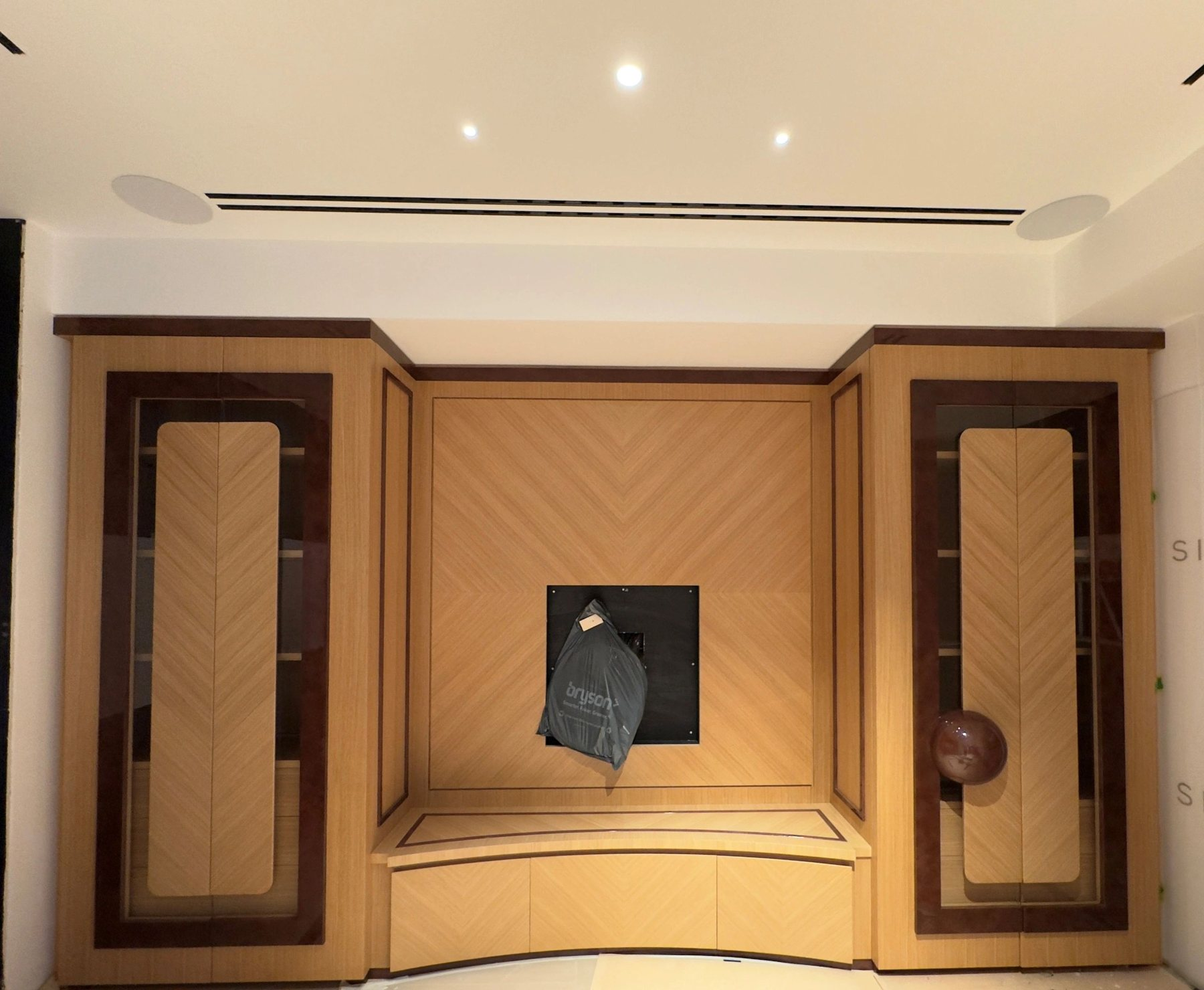
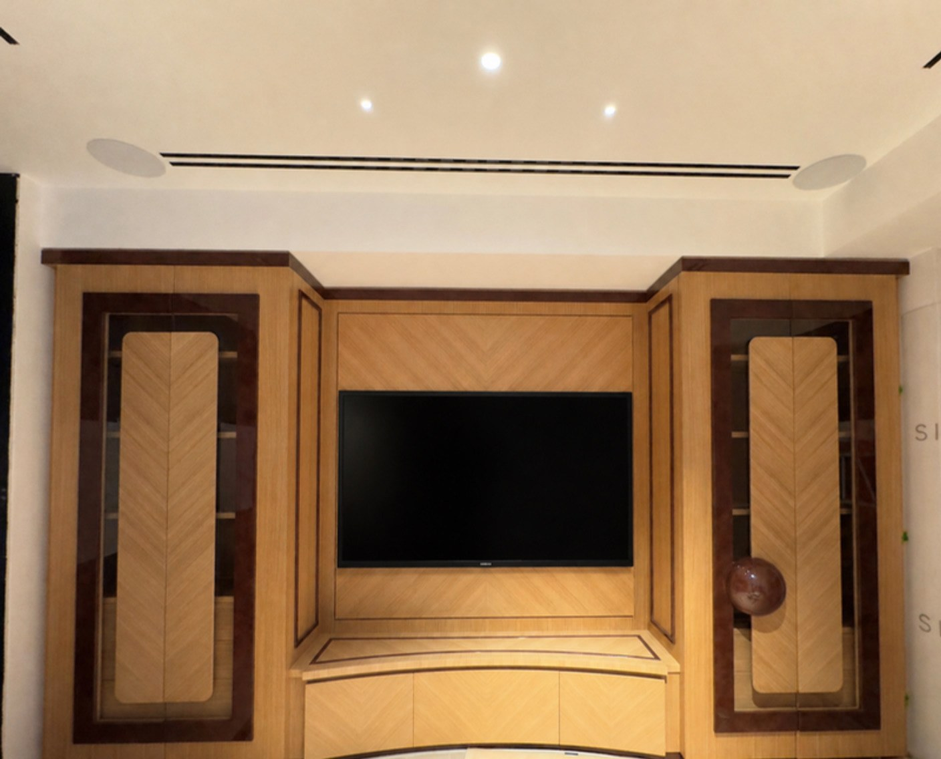
Retouched games room and conservatory photos

diff --git a/index.html b/index.html
@@ -16,7 +16,7 @@
 <link rel="preconnect" href="https://fonts.googleapis.com">
 <link rel="preconnect" href="https://fonts.gstatic.com" crossorigin>
 <link rel="stylesheet" href="https://fonts.googleapis.com/css2?family=Montserrat:wght@400;500;600;700;800&display=swap">
-<link rel="stylesheet" href="/styles.css?v=20">
+<link rel="stylesheet" href="/styles.css?v=21">
 <link rel="icon" href="/assets/ethiks-logo.png">
 <script type="application/ld+json">{"@context": "https://schema.org", "@type": "GeneralContractor", "name": "Ethiks", "legalName": "Ethiks Site Services Ltd", "url": "https://www.ethiks.co.uk/", "email": "info@ethiks.co.uk", "areaServed": "GB", "vatID": "368202614", "description": "Shopfitting, fit-out, joinery and dry lining contractor working across the UK.", "address": {"@type": "PostalAddress", "addressLocality": "Sheffield", "addressRegion": "South Yorkshire", "addressCountry": "GB"}, "openingHours": "Mo-Fr 08:00-17:00"}</script>
 </head>
@@ -32,7 +32,7 @@
   <nav class="nav" aria-label="Main"><a href="/" aria-current="page">Home</a><a href="/fit-out.html">Shopfitting</a><a href="/residential.html">Joinery</a><a href="/projects.html">Projects</a><a href="/about-us.html">About</a><a class="btn" href="/contact-us.html">Get a quote</a></nav>
 </div></header>
 <section class="hero2">
-  <div class="slides" aria-hidden="true"><figure class="on"><img src="/assets/img/s-pay-hall.jpg" alt="" width="1290" height="1290" fetchpriority="high"></figure><figure><img src="/assets/img/hero-joinery.jpg" alt="" width="2560" height="1920" loading="lazy"></figure><figure><img src="/assets/img/m-atrium.jpg" alt="" width="1290" height="973" loading="lazy"></figure><figure><img src="/assets/img/s-shelving-tables.jpg" alt="" width="1290" height="726" loading="lazy"></figure><figure><img src="/assets/img/j-glazed-cabinets.jpg" alt="" width="1792" height="1800" loading="lazy"></figure></div>
+  <div class="slides" aria-hidden="true"><figure class="on"><img src="/assets/img/s-pay-hall.jpg" alt="" width="1290" height="1290" fetchpriority="high"></figure><figure><img src="/assets/img/hero-joinery.jpg" alt="" width="2560" height="1920" loading="lazy"></figure><figure><img src="/assets/img/m-atrium.jpg" alt="" width="1290" height="973" loading="lazy"></figure><figure><img src="/assets/img/s-shelving-tables.jpg" alt="" width="1290" height="726" loading="lazy"></figure><figure><img src="/assets/img/j-glazed-cabinets.jpg" alt="" width="1264" height="1264" loading="lazy"></figure></div>
   <span class="edge" aria-hidden="true"></span>
   <div class="in">
     <div class="pitch">
@@ -59,18 +59,18 @@
   <div class="panels rv">
     <a class="panel on" href="/fit-out.html"><img src="/assets/img/s-pay-counter.jpg" alt="" width="1290" height="1290" loading="lazy"><span class="n">01</span><div class="body"><h3>Shopfitting</h3><p>Counters, checkouts, fixtures and wall systems for retail, fitted by trained installers.</p><span class="go">Shopfitting →</span></div></a>
     <a class="panel" href="/fit-out.html"><img src="/assets/img/m-landing.jpg" alt="" width="1290" height="970" loading="lazy"><span class="n">02</span><div class="body"><h3>Fit-out and dry lining</h3><p>Turnkey fit-out with partitions, linings, ceilings and joinery, managed from start to finish.</p><span class="go">Fit-out →</span></div></a>
-    <a class="panel" href="/residential.html"><img src="/assets/img/j-glazed-cabinets.jpg" alt="" width="1792" height="1800" loading="lazy"><span class="n">03</span><div class="body"><h3>Joinery and kitchens</h3><p>Fitted joinery, doors, flooring and kitchens for homes.</p><span class="go">Joinery →</span></div></a>
+    <a class="panel" href="/residential.html"><img src="/assets/img/j-glazed-cabinets.jpg" alt="" width="1264" height="1264" loading="lazy"><span class="n">03</span><div class="body"><h3>Joinery and kitchens</h3><p>Fitted joinery, doors, flooring and kitchens for homes.</p><span class="go">Joinery →</span></div></a>
   </div>
 </div></section>
 
 <section class="sec wash" style="padding-bottom:72px">
   <div class="in"><div class="shead rv"><span class="eyebrow">Projects</span><h2>Recent work.</h2><p>Our own site photos. Hover to pause, click to enlarge.</p></div></div>
-  <div class="marq"><div class="track"><figure data-zoom><img src="/assets/img/s-shelving-tables.jpg" alt="Timber shelving bays and round display tables in a shop interior" width="1290" height="726" loading="lazy"><figcaption>Shelving and display tables</figcaption></figure><figure data-zoom><img src="/assets/img/j-wardrobe-run.jpg" alt="Wall of fitted timber wardrobes with open shelving" width="1800" height="1350" loading="lazy"><figcaption>Fitted wardrobes</figcaption></figure><figure data-zoom><img src="/assets/img/s-kiosk.jpg" alt="Food-to-go kiosk with timber-effect counter inside a supermarket" width="1280" height="1706" loading="lazy"><figcaption>Food-to-go kiosk</figcaption></figure><figure data-zoom><img src="/assets/img/j-games-room.jpg" alt="Timber panelled wall with inlaid door panels in a games room" width="1800" height="1480" loading="lazy"><figcaption>Games room panelling</figcaption></figure><figure data-zoom><img src="/assets/img/m-atrium.jpg" alt="Double-height atrium inside a modular building after fit-out" width="1290" height="973" loading="lazy"><figcaption>Atrium</figcaption></figure><figure data-zoom><img src="/assets/img/s-counter-run.jpg" alt="Long run of counter units in a clothing department" width="1290" height="1290" loading="lazy"><figcaption>Counter run</figcaption></figure><figure data-zoom><img src="/assets/img/j-glazed-cabinets.jpg" alt="Glazed timber cabinets lining a room under a roof lantern" width="1792" height="1800" loading="lazy"><figcaption>Glazed cabinets</figcaption></figure><figure data-zoom><img src="/assets/img/m-landing.jpg" alt="First-floor landing with timber doors, glass balustrade and suspended ceiling" width="1290" height="970" loading="lazy"><figcaption>Landing and balustrade</figcaption></figure><figure data-zoom><img src="/assets/img/s-pay-counter.jpg" alt="Pay-here counter with timber-slat bulkhead above" width="1290" height="1290" loading="lazy"><figcaption>Counter and bulkhead</figcaption></figure><figure data-zoom><img src="/assets/img/j-panelled-door.jpg" alt="Panelled timber door set in a deep architrave" width="1287" height="1800" loading="lazy"><figcaption>Panelled door</figcaption></figure><figure aria-hidden="true" data-zoom><img src="/assets/img/s-shelving-tables.jpg" alt="" width="1290" height="726" loading="lazy"><figcaption>Shelving and display tables</figcaption></figure><figure aria-hidden="true" data-zoom><img src="/assets/img/j-wardrobe-run.jpg" alt="" width="1800" height="1350" loading="lazy"><figcaption>Fitted wardrobes</figcaption></figure><figure aria-hidden="true" data-zoom><img src="/assets/img/s-kiosk.jpg" alt="" width="1280" height="1706" loading="lazy"><figcaption>Food-to-go kiosk</figcaption></figure><figure aria-hidden="true" data-zoom><img src="/assets/img/j-games-room.jpg" alt="" width="1800" height="1480" loading="lazy"><figcaption>Games room panelling</figcaption></figure><figure aria-hidden="true" data-zoom><img src="/assets/img/m-atrium.jpg" alt="" width="1290" height="973" loading="lazy"><figcaption>Atrium</figcaption></figure><figure aria-hidden="true" data-zoom><img src="/assets/img/s-counter-run.jpg" alt="" width="1290" height="1290" loading="lazy"><figcaption>Counter run</figcaption></figure><figure aria-hidden="true" data-zoom><img src="/assets/img/j-glazed-cabinets.jpg" alt="" width="1792" height="1800" loading="lazy"><figcaption>Glazed cabinets</figcaption></figure><figure aria-hidden="true" data-zoom><img src="/assets/img/m-landing.jpg" alt="" width="1290" height="970" loading="lazy"><figcaption>Landing and balustrade</figcaption></figure><figure aria-hidden="true" data-zoom><img src="/assets/img/s-pay-counter.jpg" alt="" width="1290" height="1290" loading="lazy"><figcaption>Counter and bulkhead</figcaption></figure><figure aria-hidden="true" data-zoom><img src="/assets/img/j-panelled-door.jpg" alt="" width="1287" height="1800" loading="lazy"><figcaption>Panelled door</figcaption></figure></div></div>
+  <div class="marq"><div class="track"><figure data-zoom><img src="/assets/img/s-shelving-tables.jpg" alt="Timber shelving bays and round display tables in a shop interior" width="1290" height="726" loading="lazy"><figcaption>Shelving and display tables</figcaption></figure><figure data-zoom><img src="/assets/img/j-wardrobe-run.jpg" alt="Wall of fitted timber wardrobes with open shelving" width="1800" height="1350" loading="lazy"><figcaption>Fitted wardrobes</figcaption></figure><figure data-zoom><img src="/assets/img/s-kiosk.jpg" alt="Food-to-go kiosk with timber-effect counter inside a supermarket" width="1280" height="1706" loading="lazy"><figcaption>Food-to-go kiosk</figcaption></figure><figure data-zoom><img src="/assets/img/j-games-room.jpg" alt="Timber panelled media wall with a TV between inlaid door panels" width="1408" height="1136" loading="lazy"><figcaption>Games room panelling</figcaption></figure><figure data-zoom><img src="/assets/img/m-atrium.jpg" alt="Double-height atrium inside a modular building after fit-out" width="1290" height="973" loading="lazy"><figcaption>Atrium</figcaption></figure><figure data-zoom><img src="/assets/img/s-counter-run.jpg" alt="Long run of counter units in a clothing department" width="1290" height="1290" loading="lazy"><figcaption>Counter run</figcaption></figure><figure data-zoom><img src="/assets/img/j-glazed-cabinets.jpg" alt="Glazed timber cabinets lining a room with a timber floor under a roof lantern" width="1264" height="1264" loading="lazy"><figcaption>Glazed cabinets</figcaption></figure><figure data-zoom><img src="/assets/img/m-landing.jpg" alt="First-floor landing with timber doors, glass balustrade and suspended ceiling" width="1290" height="970" loading="lazy"><figcaption>Landing and balustrade</figcaption></figure><figure data-zoom><img src="/assets/img/s-pay-counter.jpg" alt="Pay-here counter with timber-slat bulkhead above" width="1290" height="1290" loading="lazy"><figcaption>Counter and bulkhead</figcaption></figure><figure data-zoom><img src="/assets/img/j-panelled-door.jpg" alt="Panelled timber door set in a deep architrave" width="1287" height="1800" loading="lazy"><figcaption>Panelled door</figcaption></figure><figure aria-hidden="true" data-zoom><img src="/assets/img/s-shelving-tables.jpg" alt="" width="1290" height="726" loading="lazy"><figcaption>Shelving and display tables</figcaption></figure><figure aria-hidden="true" data-zoom><img src="/assets/img/j-wardrobe-run.jpg" alt="" width="1800" height="1350" loading="lazy"><figcaption>Fitted wardrobes</figcaption></figure><figure aria-hidden="true" data-zoom><img src="/assets/img/s-kiosk.jpg" alt="" width="1280" height="1706" loading="lazy"><figcaption>Food-to-go kiosk</figcaption></figure><figure aria-hidden="true" data-zoom><img src="/assets/img/j-games-room.jpg" alt="" width="1408" height="1136" loading="lazy"><figcaption>Games room panelling</figcaption></figure><figure aria-hidden="true" data-zoom><img src="/assets/img/m-atrium.jpg" alt="" width="1290" height="973" loading="lazy"><figcaption>Atrium</figcaption></figure><figure aria-hidden="true" data-zoom><img src="/assets/img/s-counter-run.jpg" alt="" width="1290" height="1290" loading="lazy"><figcaption>Counter run</figcaption></figure><figure aria-hidden="true" data-zoom><img src="/assets/img/j-glazed-cabinets.jpg" alt="" width="1264" height="1264" loading="lazy"><figcaption>Glazed cabinets</figcaption></figure><figure aria-hidden="true" data-zoom><img src="/assets/img/m-landing.jpg" alt="" width="1290" height="970" loading="lazy"><figcaption>Landing and balustrade</figcaption></figure><figure aria-hidden="true" data-zoom><img src="/assets/img/s-pay-counter.jpg" alt="" width="1290" height="1290" loading="lazy"><figcaption>Counter and bulkhead</figcaption></figure><figure aria-hidden="true" data-zoom><img src="/assets/img/j-panelled-door.jpg" alt="" width="1287" height="1800" loading="lazy"><figcaption>Panelled door</figcaption></figure></div></div>
   <div class="in"><p style="margin-top:30px"><a class="btn dark" href="/projects.html">See all projects</a></p></div>
 </section>
 
 <section class="sec"><div class="in split">
-  <div class="photo tall zoom rv" data-zoom><img src="/assets/img/j-games-room.jpg" alt="Timber panelled wall with inlaid door panels in a games room" width="1800" height="1480" loading="lazy"></div>
+  <div class="photo tall zoom rv" data-zoom><img src="/assets/img/j-games-room.jpg" alt="Timber panelled wall with inlaid door panels in a games room" width="1408" height="1136" loading="lazy"></div>
   <div class="copy rv d1">
     <span class="eyebrow">How we work</span>
     <h2>The last trade in decides how the job looks.</h2>
@@ -109,6 +109,6 @@
   </div>
 </footer>
 <div class="lb" role="dialog" aria-modal="true" aria-label="Photo" hidden><button class="x" aria-label="Close">×</button><button class="prev" aria-label="Previous photo">←</button><img alt=""><button class="next" aria-label="Next photo">→</button><p></p></div>
-<script src="/main.js?v=20" defer></script>
+<script src="/main.js?v=21" defer></script>
 </body>
 </html>

diff --git a/projects.html b/projects.html
@@ -16,7 +16,7 @@
 <link rel="preconnect" href="https://fonts.googleapis.com">
 <link rel="preconnect" href="https://fonts.gstatic.com" crossorigin>
 <link rel="stylesheet" href="https://fonts.googleapis.com/css2?family=Montserrat:wght@400;500;600;700;800&display=swap">
-<link rel="stylesheet" href="/styles.css?v=20">
+<link rel="stylesheet" href="/styles.css?v=21">
 <link rel="icon" href="/assets/ethiks-logo.png">
 </head>
 <body>
@@ -41,7 +41,7 @@
     <button type="button" data-f="joinery" aria-pressed="false">Joinery</button>
     <button type="button" data-f="modular" aria-pressed="false">Modular</button>
   </div>
-  <div class="gallery"><figure data-g="shop" data-zoom><img src="/assets/img/s-pay-hall.jpg" alt="Pay-here counters and customer service desk in a large store" width="1290" height="1290" loading="lazy"><figcaption>Pay-here counters</figcaption></figure><figure data-g="joinery" data-zoom><img src="/assets/img/j-wardrobe-run.jpg" alt="Wall of fitted timber wardrobes with open shelving" width="1800" height="1350" loading="lazy"><figcaption>Fitted wardrobes</figcaption></figure><figure data-g="modular" data-zoom><img src="/assets/img/m-building.jpg" alt="Completed two-storey modular building with dark cladding over light brick" width="1290" height="716" loading="lazy"><figcaption>Completed building</figcaption></figure><figure data-g="shop" data-zoom><img src="/assets/img/s-shelving-tables.jpg" alt="Timber shelving bays and round display tables in a shop interior" width="1290" height="726" loading="lazy"><figcaption>Shelving and display tables</figcaption></figure><figure data-g="joinery" data-zoom><img src="/assets/img/j-glazed-cabinets.jpg" alt="Glazed timber cabinets lining a room under a roof lantern" width="1792" height="1800" loading="lazy"><figcaption>Glazed cabinets</figcaption></figure><figure data-g="modular" data-zoom><img src="/assets/img/m-atrium.jpg" alt="Double-height atrium inside a modular building after fit-out" width="1290" height="973" loading="lazy"><figcaption>Atrium</figcaption></figure><figure data-g="shop" data-zoom><img src="/assets/img/s-kiosk.jpg" alt="Food-to-go kiosk with timber-effect counter inside a supermarket" width="1280" height="1706" loading="lazy"><figcaption>Food-to-go kiosk</figcaption></figure><figure data-g="joinery" data-zoom><img src="/assets/img/j-games-room.jpg" alt="Timber panelled wall with inlaid door panels in a games room" width="1800" height="1480" loading="lazy"><figcaption>Games room panelling</figcaption></figure><figure data-g="modular" data-zoom><img src="/assets/img/m-landing.jpg" alt="First-floor landing with timber doors, glass balustrade and suspended ceiling" width="1290" height="970" loading="lazy"><figcaption>Landing and balustrade</figcaption></figure><figure data-g="shop" data-zoom><img src="/assets/img/s-counter-run.jpg" alt="Long run of counter units in a clothing department" width="1290" height="1290" loading="lazy"><figcaption>Counter run</figcaption></figure><figure data-g="joinery" data-zoom><img src="/assets/img/j-glazed-doors.jpg" alt="Tall pair of glazed timber doors" width="1059" height="1800" loading="lazy"><figcaption>Glazed doors</figcaption></figure><figure data-g="modular" data-zoom><img src="/assets/img/m-classroom.jpg" alt="Large room with carpet tiles, wall boards and suspended ceiling" width="1290" height="956" loading="lazy"><figcaption>Teaching room</figcaption></figure><figure data-g="shop" data-zoom><img src="/assets/img/s-checkout-desk.jpg" alt="Manned checkout desk at the front of a supermarket" width="1290" height="968" loading="lazy"><figcaption>Checkout desk</figcaption></figure><figure data-g="joinery" data-zoom><img src="/assets/img/j-panelled-door.jpg" alt="Panelled timber door set in a deep architrave" width="1287" height="1800" loading="lazy"><figcaption>Panelled door</figcaption></figure><figure data-g="modular" data-zoom><img src="/assets/img/m-corridor.jpg" alt="Corridor with timber doors and suspended ceiling" width="1290" height="963" loading="lazy"><figcaption>Corridor</figcaption></figure><figure data-g="shop" data-zoom><img src="/assets/img/s-pay-counter.jpg" alt="Pay-here counter with timber-slat bulkhead above" width="1290" height="1290" loading="lazy"><figcaption>Counter and bulkhead</figcaption></figure><figure data-g="joinery" data-zoom><img src="/assets/img/j-wardrobe-shelves.jpg" alt="Fitted wardrobes and shelves beside a matching door" width="1800" height="1350" loading="lazy"><figcaption>Wardrobes and shelving</figcaption></figure><figure data-g="modular" data-zoom><img src="/assets/img/m-washroom.jpg" alt="Washroom with blue cubicle doors and a wash trough" width="1290" height="953" loading="lazy"><figcaption>Washroom cubicles</figcaption></figure></div>
+  <div class="gallery"><figure data-g="shop" data-zoom><img src="/assets/img/s-pay-hall.jpg" alt="Pay-here counters and customer service desk in a large store" width="1290" height="1290" loading="lazy"><figcaption>Pay-here counters</figcaption></figure><figure data-g="joinery" data-zoom><img src="/assets/img/j-wardrobe-run.jpg" alt="Wall of fitted timber wardrobes with open shelving" width="1800" height="1350" loading="lazy"><figcaption>Fitted wardrobes</figcaption></figure><figure data-g="modular" data-zoom><img src="/assets/img/m-building.jpg" alt="Completed two-storey modular building with dark cladding over light brick" width="1290" height="716" loading="lazy"><figcaption>Completed building</figcaption></figure><figure data-g="shop" data-zoom><img src="/assets/img/s-shelving-tables.jpg" alt="Timber shelving bays and round display tables in a shop interior" width="1290" height="726" loading="lazy"><figcaption>Shelving and display tables</figcaption></figure><figure data-g="joinery" data-zoom><img src="/assets/img/j-glazed-cabinets.jpg" alt="Glazed timber cabinets lining a room with a timber floor under a roof lantern" width="1264" height="1264" loading="lazy"><figcaption>Glazed cabinets</figcaption></figure><figure data-g="modular" data-zoom><img src="/assets/img/m-atrium.jpg" alt="Double-height atrium inside a modular building after fit-out" width="1290" height="973" loading="lazy"><figcaption>Atrium</figcaption></figure><figure data-g="shop" data-zoom><img src="/assets/img/s-kiosk.jpg" alt="Food-to-go kiosk with timber-effect counter inside a supermarket" width="1280" height="1706" loading="lazy"><figcaption>Food-to-go kiosk</figcaption></figure><figure data-g="joinery" data-zoom><img src="/assets/img/j-games-room.jpg" alt="Timber panelled media wall with a TV between inlaid door panels" width="1408" height="1136" loading="lazy"><figcaption>Games room panelling</figcaption></figure><figure data-g="modular" data-zoom><img src="/assets/img/m-landing.jpg" alt="First-floor landing with timber doors, glass balustrade and suspended ceiling" width="1290" height="970" loading="lazy"><figcaption>Landing and balustrade</figcaption></figure><figure data-g="shop" data-zoom><img src="/assets/img/s-counter-run.jpg" alt="Long run of counter units in a clothing department" width="1290" height="1290" loading="lazy"><figcaption>Counter run</figcaption></figure><figure data-g="joinery" data-zoom><img src="/assets/img/j-glazed-doors.jpg" alt="Tall pair of glazed timber doors" width="1059" height="1800" loading="lazy"><figcaption>Glazed doors</figcaption></figure><figure data-g="modular" data-zoom><img src="/assets/img/m-classroom.jpg" alt="Large room with carpet tiles, wall boards and suspended ceiling" width="1290" height="956" loading="lazy"><figcaption>Teaching room</figcaption></figure><figure data-g="shop" data-zoom><img src="/assets/img/s-checkout-desk.jpg" alt="Manned checkout desk at the front of a supermarket" width="1290" height="968" loading="lazy"><figcaption>Checkout desk</figcaption></figure><figure data-g="joinery" data-zoom><img src="/assets/img/j-panelled-door.jpg" alt="Panelled timber door set in a deep architrave" width="1287" height="1800" loading="lazy"><figcaption>Panelled door</figcaption></figure><figure data-g="modular" data-zoom><img src="/assets/img/m-corridor.jpg" alt="Corridor with timber doors and suspended ceiling" width="1290" height="963" loading="lazy"><figcaption>Corridor</figcaption></figure><figure data-g="shop" data-zoom><img src="/assets/img/s-pay-counter.jpg" alt="Pay-here counter with timber-slat bulkhead above" width="1290" height="1290" loading="lazy"><figcaption>Counter and bulkhead</figcaption></figure><figure data-g="joinery" data-zoom><img src="/assets/img/j-wardrobe-shelves.jpg" alt="Fitted wardrobes and shelves beside a matching door" width="1800" height="1350" loading="lazy"><figcaption>Wardrobes and shelving</figcaption></figure><figure data-g="modular" data-zoom><img src="/assets/img/m-washroom.jpg" alt="Washroom with blue cubicle doors and a wash trough" width="1290" height="953" loading="lazy"><figcaption>Washroom cubicles</figcaption></figure></div>
 </div></section>
 <section class="cta"><div class="in">
   <h2>Got a project coming up? Tell us about it.</h2>
@@ -58,6 +58,6 @@
   </div>
 </footer>
 <div class="lb" role="dialog" aria-modal="true" aria-label="Photo" hidden><button class="x" aria-label="Close">×</button><button class="prev" aria-label="Previous photo">←</button><img alt=""><button class="next" aria-label="Next photo">→</button><p></p></div>
-<script src="/main.js?v=20" defer></script>
+<script src="/main.js?v=21" defer></script>
 </body>
 </html>

diff --git a/residential.html b/residential.html
@@ -16,7 +16,7 @@
 <link rel="preconnect" href="https://fonts.googleapis.com">
 <link rel="preconnect" href="https://fonts.gstatic.com" crossorigin>
 <link rel="stylesheet" href="https://fonts.googleapis.com/css2?family=Montserrat:wght@400;500;600;700;800&display=swap">
-<link rel="stylesheet" href="/styles.css?v=20">
+<link rel="stylesheet" href="/styles.css?v=21">
 <link rel="icon" href="/assets/ethiks-logo.png">
 </head>
 <body>
@@ -48,7 +48,7 @@
 
 <section class="sec wash"><div class="in">
   <div class="shead rv"><span class="eyebrow">Site photos</span><h2>Joinery we have fitted.</h2></div>
-  <div class="gallery rv"><figure data-zoom><img src="/assets/img/j-wardrobe-run.jpg" alt="Wall of fitted timber wardrobes with open shelving" width="1800" height="1350" loading="lazy"><figcaption>Fitted wardrobes</figcaption></figure><figure data-zoom><img src="/assets/img/j-glazed-cabinets.jpg" alt="Glazed timber cabinets lining a room under a roof lantern" width="1792" height="1800" loading="lazy"><figcaption>Glazed cabinets</figcaption></figure><figure data-zoom><img src="/assets/img/j-games-room.jpg" alt="Timber panelled wall with inlaid door panels in a games room" width="1800" height="1480" loading="lazy"><figcaption>Games room panelling</figcaption></figure><figure data-zoom><img src="/assets/img/j-glazed-doors.jpg" alt="Tall pair of glazed timber doors" width="1059" height="1800" loading="lazy"><figcaption>Glazed doors</figcaption></figure><figure data-zoom><img src="/assets/img/j-panelled-door.jpg" alt="Panelled timber door set in a deep architrave" width="1287" height="1800" loading="lazy"><figcaption>Panelled door</figcaption></figure><figure data-zoom><img src="/assets/img/j-wardrobe-shelves.jpg" alt="Fitted wardrobes and shelves beside a matching door" width="1800" height="1350" loading="lazy"><figcaption>Wardrobes and shelving</figcaption></figure></div>
+  <div class="gallery rv"><figure data-zoom><img src="/assets/img/j-wardrobe-run.jpg" alt="Wall of fitted timber wardrobes with open shelving" width="1800" height="1350" loading="lazy"><figcaption>Fitted wardrobes</figcaption></figure><figure data-zoom><img src="/assets/img/j-glazed-cabinets.jpg" alt="Glazed timber cabinets lining a room with a timber floor under a roof lantern" width="1264" height="1264" loading="lazy"><figcaption>Glazed cabinets</figcaption></figure><figure data-zoom><img src="/assets/img/j-games-room.jpg" alt="Timber panelled media wall with a TV between inlaid door panels" width="1408" height="1136" loading="lazy"><figcaption>Games room panelling</figcaption></figure><figure data-zoom><img src="/assets/img/j-glazed-doors.jpg" alt="Tall pair of glazed timber doors" width="1059" height="1800" loading="lazy"><figcaption>Glazed doors</figcaption></figure><figure data-zoom><img src="/assets/img/j-panelled-door.jpg" alt="Panelled timber door set in a deep architrave" width="1287" height="1800" loading="lazy"><figcaption>Panelled door</figcaption></figure><figure data-zoom><img src="/assets/img/j-wardrobe-shelves.jpg" alt="Fitted wardrobes and shelves beside a matching door" width="1800" height="1350" loading="lazy"><figcaption>Wardrobes and shelving</figcaption></figure></div>
 </div></section>
 
 <section class="sec" id="kitchens"><div class="in">
@@ -77,6 +77,6 @@
   </div>
 </footer>
 <div class="lb" role="dialog" aria-modal="true" aria-label="Photo" hidden><button class="x" aria-label="Close">×</button><button class="prev" aria-label="Previous photo">←</button><img alt=""><button class="next" aria-label="Next photo">→</button><p></p></div>
-<script src="/main.js?v=20" defer></script>
+<script src="/main.js?v=21" defer></script>
 </body>
 </html>

diff --git a/about-us.html b/about-us.html
@@ -16,7 +16,7 @@
 <link rel="preconnect" href="https://fonts.googleapis.com">
 <link rel="preconnect" href="https://fonts.gstatic.com" crossorigin>
 <link rel="stylesheet" href="https://fonts.googleapis.com/css2?family=Montserrat:wght@400;500;600;700;800&display=swap">
-<link rel="stylesheet" href="/styles.css?v=20">
+<link rel="stylesheet" href="/styles.css?v=21">
 <link rel="icon" href="/assets/ethiks-logo.png">
 </head>
 <body>
@@ -32,7 +32,7 @@
 </div></header>
 <section class="phead"><div class="in">
   <div class="copy"><span class="eyebrow">About us</span><h1>It's not what we do, it's why we do it</h1><p>Ethiks is a private company, owned by the people who manage it and built on loyalty and service.</p></div>
-  <div class="rv d1"><img src="/assets/img/j-glazed-cabinets.jpg" alt="Glazed timber cabinets lining a room under a roof lantern" width="1792" height="1800" fetchpriority="high"></div>
+  <div class="rv d1"><img src="/assets/img/j-glazed-cabinets.jpg" alt="Glazed timber cabinets lining a room with a timber floor under a roof lantern" width="1264" height="1264" fetchpriority="high"></div>
 </div></section><main id="main">
 <section class="sec"><div class="in two">
   <div class="rv">
@@ -77,6 +77,6 @@
   </div>
 </footer>
 <div class="lb" role="dialog" aria-modal="true" aria-label="Photo" hidden><button class="x" aria-label="Close">×</button><button class="prev" aria-label="Previous photo">←</button><img alt=""><button class="next" aria-label="Next photo">→</button><p></p></div>
-<script src="/main.js?v=20" defer></script>
+<script src="/main.js?v=21" defer></script>
 </body>
 </html>

diff --git a/404.html b/404.html
@@ -16,7 +16,7 @@
 <link rel="preconnect" href="https://fonts.googleapis.com">
 <link rel="preconnect" href="https://fonts.gstatic.com" crossorigin>
 <link rel="stylesheet" href="https://fonts.googleapis.com/css2?family=Montserrat:wght@400;500;600;700;800&display=swap">
-<link rel="stylesheet" href="/styles.css?v=20">
+<link rel="stylesheet" href="/styles.css?v=21">
 <link rel="icon" href="/assets/ethiks-logo.png">
 <meta name="robots" content="noindex">
 </head>
@@ -45,6 +45,6 @@
   </div>
 </footer>
 <div class="lb" role="dialog" aria-modal="true" aria-label="Photo" hidden><button class="x" aria-label="Close">×</button><button class="prev" aria-label="Previous photo">←</button><img alt=""><button class="next" aria-label="Next photo">→</button><p></p></div>
-<script src="/main.js?v=20" defer></script>
+<script src="/main.js?v=21" defer></script>
 </body>
 </html>

diff --git a/contact-us.html b/contact-us.html
@@ -16,7 +16,7 @@
 <link rel="preconnect" href="https://fonts.googleapis.com">
 <link rel="preconnect" href="https://fonts.gstatic.com" crossorigin>
 <link rel="stylesheet" href="https://fonts.googleapis.com/css2?family=Montserrat:wght@400;500;600;700;800&display=swap">
-<link rel="stylesheet" href="/styles.css?v=20">
+<link rel="stylesheet" href="/styles.css?v=21">
 <link rel="icon" href="/assets/ethiks-logo.png">
 </head>
 <body>
@@ -66,6 +66,6 @@
   </div>
 </footer>
 <div class="lb" role="dialog" aria-modal="true" aria-label="Photo" hidden><button class="x" aria-label="Close">×</button><button class="prev" aria-label="Previous photo">←</button><img alt=""><button class="next" aria-label="Next photo">→</button><p></p></div>
-<script src="/main.js?v=20" defer></script>
+<script src="/main.js?v=21" defer></script>
 </body>
 </html>

diff --git a/fit-out.html b/fit-out.html
@@ -16,7 +16,7 @@
 <link rel="preconnect" href="https://fonts.googleapis.com">
 <link rel="preconnect" href="https://fonts.gstatic.com" crossorigin>
 <link rel="stylesheet" href="https://fonts.googleapis.com/css2?family=Montserrat:wght@400;500;600;700;800&display=swap">
-<link rel="stylesheet" href="/styles.css?v=20">
+<link rel="stylesheet" href="/styles.css?v=21">
 <link rel="icon" href="/assets/ethiks-logo.png">
 </head>
 <body>
@@ -85,6 +85,6 @@
   </div>
 </footer>
 <div class="lb" role="dialog" aria-modal="true" aria-label="Photo" hidden><button class="x" aria-label="Close">×</button><button class="prev" aria-label="Previous photo">←</button><img alt=""><button class="next" aria-label="Next photo">→</button><p></p></div>
-<script src="/main.js?v=20" defer></script>
+<script src="/main.js?v=21" defer></script>
 </body>
 </html>

diff --git a/privacy-policy.html b/privacy-policy.html
@@ -16,7 +16,7 @@
 <link rel="preconnect" href="https://fonts.googleapis.com">
 <link rel="preconnect" href="https://fonts.gstatic.com" crossorigin>
 <link rel="stylesheet" href="https://fonts.googleapis.com/css2?family=Montserrat:wght@400;500;600;700;800&display=swap">
-<link rel="stylesheet" href="/styles.css?v=20">
+<link rel="stylesheet" href="/styles.css?v=21">
 <link rel="icon" href="/assets/ethiks-logo.png">
 </head>
 <body>
@@ -62,6 +62,6 @@
   </div>
 </footer>
 <div class="lb" role="dialog" aria-modal="true" aria-label="Photo" hidden><button class="x" aria-label="Close">×</button><button class="prev" aria-label="Previous photo">←</button><img alt=""><button class="next" aria-label="Next photo">→</button><p></p></div>
-<script src="/main.js?v=20" defer></script>
+<script src="/main.js?v=21" defer></script>
 </body>
 </html>

diff --git a/register.html b/register.html
@@ -16,7 +16,7 @@
 <link rel="preconnect" href="https://fonts.googleapis.com">
 <link rel="preconnect" href="https://fonts.gstatic.com" crossorigin>
 <link rel="stylesheet" href="https://fonts.googleapis.com/css2?family=Montserrat:wght@400;500;600;700;800&display=swap">
-<link rel="stylesheet" href="/styles.css?v=20">
+<link rel="stylesheet" href="/styles.css?v=21">
 <link rel="icon" href="/assets/ethiks-logo.png">
 </head>
 <body>
@@ -63,6 +63,6 @@
   </div>
 </footer>
 <div class="lb" role="dialog" aria-modal="true" aria-label="Photo" hidden><button class="x" aria-label="Close">×</button><button class="prev" aria-label="Previous photo">←</button><img alt=""><button class="next" aria-label="Next photo">→</button><p></p></div>
-<script src="/main.js?v=20" defer></script>
+<script src="/main.js?v=21" defer></script>
 </body>
 </html>

diff --git a/uae.html b/uae.html
@@ -16,7 +16,7 @@
 <link rel="preconnect" href="https://fonts.googleapis.com">
 <link rel="preconnect" href="https://fonts.gstatic.com" crossorigin>
 <link rel="stylesheet" href="https://fonts.googleapis.com/css2?family=Montserrat:wght@400;500;600;700;800&display=swap">
-<link rel="stylesheet" href="/styles.css?v=20">
+<link rel="stylesheet" href="/styles.css?v=21">
 <link rel="icon" href="/assets/ethiks-logo.png">
 </head>
 <body>
@@ -64,6 +64,6 @@
   </div>
 </footer>
 <div class="lb" role="dialog" aria-modal="true" aria-label="Photo" hidden><button class="x" aria-label="Close">×</button><button class="prev" aria-label="Previous photo">←</button><img alt=""><button class="next" aria-label="Next photo">→</button><p></p></div>
-<script src="/main.js?v=20" defer></script>
+<script src="/main.js?v=21" defer></script>
 </body>
 </html>
